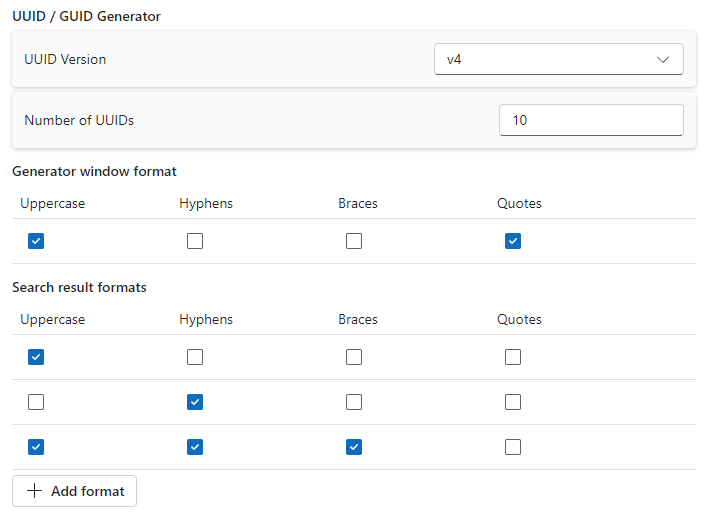
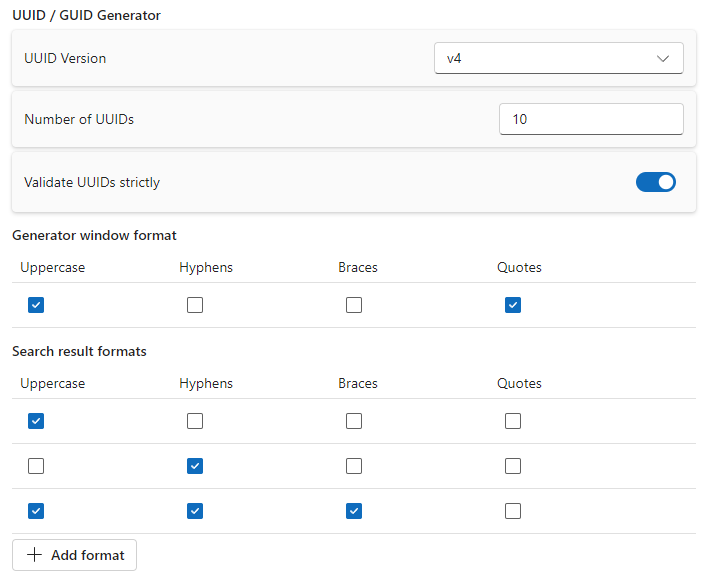
Added switch for validation of 'invalid' uuids which are valid in other programming languages (#1365)

diff --git a/src/main/Extensions/UuidGenerator/UuidGeneratorExtension.ts b/src/main/Extensions/UuidGenerator/UuidGeneratorExtension.ts
@@ -12,7 +12,7 @@ import {
 import { getExtensionSettingKey } from "@common/Core/Extension";
 import type { Image } from "@common/Core/Image";
 import type { Resources, Translations } from "@common/Core/Translator";
-import type { UuidGeneratorSetting as Settings, UuidFormat, UuidVersion } from "@common/Extensions/UuidGenerator";
+import type { UuidGeneratorSetting as Settings, UuidVersion } from "@common/Extensions/UuidGenerator";
 import { UuidGenerator } from "./UuidGenerator";
 
 export class UuidGeneratorExtension implements Extension {
@@ -22,6 +22,7 @@ export class UuidGeneratorExtension implements Extension {
     public readonly defaultSettings: Settings = {
         uuidVersion: "v4",
         numberOfUuids: 10,
+        validateStrictly: true,
         generatorFormat: { uppercase: false, hyphens: true, braces: false, quotes: false },
         searchResultFormats: [],
     };
@@ -38,7 +39,8 @@ export class UuidGeneratorExtension implements Extension {
     ) {}
 
     public getInstantSearchResultItems(searchTerm: string): InstantSearchResultItems {
-        const uuidFormats: UuidFormat[] = this.getSettingValue("searchResultFormats");
+        const uuidFormats = this.getSettingValue("searchResultFormats");
+        const validateStrictly = this.getSettingValue("validateStrictly");
 
         let uuidSearchTerm = searchTerm;
         if (uuidSearchTerm.toLowerCase().startsWith("uuid") || uuidSearchTerm.toLowerCase().startsWith("guid")) {
@@ -56,7 +58,7 @@ export class UuidGeneratorExtension implements Extension {
             return {
                 after: [],
                 before: uuidFormats.map((format, index) => {
-                    const formattedUuid = UuidGenerator.format(possibleUuid, format);
+                    const formattedUuid = UuidGenerator.format(possibleUuid, format, validateStrictly);
 
                     return {
                         name: formattedUuid,
@@ -142,6 +144,7 @@ export class UuidGeneratorExtension implements Extension {
                 openGeneratorName: "UUID / GUID Generator",
                 uuidVersion: "UUID Version",
                 numberOfUuids: "Number of UUIDs",
+                validateStrictly: "Validate UUIDs strictly",
                 uppercase: "Uppercase",
                 hyphens: "Hyphens",
                 braces: "Braces",
@@ -158,6 +161,7 @@ export class UuidGeneratorExtension implements Extension {
                 generatorResult: "UUID / GUID",
                 uuidVersion: "UUID Version",
                 numberOfUuids: "Anzahl UUIDs",
+                validateStrictly: "UUIDs strikt validieren",
                 uppercase: "Grossbuchstaben",
                 hyphens: "Bindestriche",
                 braces: "Geschweifte Klammern",
@@ -180,8 +184,12 @@ export class UuidGeneratorExtension implements Extension {
         };
     }
 
-    public getSettingDefaultValue(key: keyof Settings) {
+    public getSettingDefaultValue<T extends keyof Settings>(key: T): Settings[T] {
         return this.defaultSettings[key];
+    }
+
+    private getSettingValue<T extends keyof Settings>(key: T): Settings[T] {
+        return this.settingsManager.getValue(getExtensionSettingKey(this.id, key), this.getSettingDefaultValue(key));
     }
 
     public async invoke(settings: Settings): Promise<string[]> {
@@ -225,17 +233,12 @@ export class UuidGeneratorExtension implements Extension {
             }
         }
 
-        return UuidGenerator.format(uuid, { uppercase, hyphens, braces, quotes });
-    }
-
-    private getSettingValue<T>(key: keyof Settings): T {
-        return this.settingsManager.getValue<T>(
-            getExtensionSettingKey(this.id, key),
-            <T>this.getSettingDefaultValue(key),
-        );
+        return UuidGenerator.format(uuid, { uppercase, hyphens, braces, quotes }, true);
     }
 
     private validateUuid(uuid: string): boolean {
-        return UuidGenerator.validateUuid(uuid);
+        return this.getSettingValue("validateStrictly") === true
+            ? UuidGenerator.validateUuidStrictly(uuid)
+            : UuidGenerator.validateUuid(uuid);
     }
 }

diff --git a/src/main/Extensions/UuidGenerator/UuidGenerator.test.ts b/src/main/Extensions/UuidGenerator/UuidGenerator.test.ts
@@ -32,12 +32,16 @@ describe(UuidGenerator, () => {
     describe(UuidGenerator.format, () => {
         it("should throw an error if the uuid is invalid", () => {
             expect(() =>
-                UuidGenerator.format("invalid-uuid", {
-                    uppercase: false,
-                    hyphens: false,
-                    braces: false,
-                    quotes: false,
-                }),
+                UuidGenerator.format(
+                    "invalid-uuid",
+                    {
+                        uppercase: false,
+                        hyphens: false,
+                        braces: false,
+                        quotes: false,
+                    },
+                    true,
+                ),
             ).toThrow("Invalid UUID");
         });
 
@@ -49,13 +53,32 @@ describe(UuidGenerator, () => {
             ["21771a07-7dce-40b3-850e-386c1a0f5a2d", false, false, false, true, /"[0-9a-f]{32}"/],
             ["21771a07-7dce-40b3-850e-386c1a0f5a2d", false, false, true, true, /"\{[0-9a-f]{32}\}"/],
         ])("should format uuid correctly", (uuid, uppercase, hyphens, braces, quotes, expectedPattern) => {
-            const formattedUuid = UuidGenerator.format(uuid, {
-                uppercase: uppercase,
-                hyphens: hyphens,
-                braces: braces,
-                quotes: quotes,
-            });
+            const formattedUuid = UuidGenerator.format(
+                uuid,
+                {
+                    uppercase: uppercase,
+                    hyphens: hyphens,
+                    braces: braces,
+                    quotes: quotes,
+                },
+                true,
+            );
             expect(formattedUuid).toMatch(expectedPattern);
+        });
+    });
+
+    describe(UuidGenerator.validateUuidStrictly, () => {
+        it.each([
+            ["21771a07-7dce-40b3-850e-386c1a0f5a2d", true],
+            ["21771a07-7dce-40b3-850e-386c1a0f5a2z", false],
+            ["99edf227-d64c-5d90-d314-5d998c38c687", false],
+            ["e4cecde9-9c8e-c386-d314-b0c2d00161ea", false],
+            ["c7dc2472-4d58-7f9d-d314-9568005e9720", false],
+            ["db6b61a3-b22c-0999-d314-c0a53428d3e1", false],
+            ["e9d98550-d8e9-7ab4-d314-a8a540011a47", false],
+        ])("should validate uuid correctly (strict mode)", (uuid, expectedIsValid) => {
+            const isValid = UuidGenerator.validateUuidStrictly(uuid).toString();
+            expect(isValid).toMatch(expectedIsValid.toString());
         });
     });
 
@@ -63,7 +86,12 @@ describe(UuidGenerator, () => {
         it.each([
             ["21771a07-7dce-40b3-850e-386c1a0f5a2d", true],
             ["21771a07-7dce-40b3-850e-386c1a0f5a2z", false],
-        ])("should validate uuid correctly", (uuid, expectedIsValid) => {
+            ["99edf227-d64c-5d90-d314-5d998c38c687", true],
+            ["e4cecde9-9c8e-c386-d314-b0c2d00161ea", true],
+            ["c7dc2472-4d58-7f9d-d314-9568005e9720", true],
+            ["db6b61a3-b22c-0999-d314-c0a53428d3e1", true],
+            ["e9d98550-d8e9-7ab4-d314-a8a540011a47", true],
+        ])("should validate uuid correctly (not in strict mode)", (uuid, expectedIsValid) => {
             const isValid = UuidGenerator.validateUuid(uuid).toString();
             expect(isValid).toMatch(expectedIsValid.toString());
         });

diff --git a/src/renderer/Extensions/UuidGenerator/UuidGeneratorSettings.tsx b/src/renderer/Extensions/UuidGenerator/UuidGeneratorSettings.tsx
@@ -11,6 +11,7 @@ import {
     Input,
     Label,
     Option,
+    Switch,
     Table,
     TableBody,
     TableCell,
@@ -38,6 +39,11 @@ export const UuidGeneratorSettings = () => {
     const { value: numberOfUuids, updateValue: setNumberOfUuids } = useExtensionSetting<number>({
         extensionId,
         key: "numberOfUuids",
+    });
+
+    const { value: validateStrictly, updateValue: setValidateStrictly } = useExtensionSetting<boolean>({
+        extensionId,
+        key: "validateStrictly",
     });
 
     const { value: uppercase, updateValue: setUppercase } = useExtensionSetting<boolean>({
@@ -121,6 +127,15 @@ export const UuidGeneratorSettings = () => {
                             value={`${numberOfUuids}`}
                             type="number"
                             onChange={(_, { value }) => value && setNumberOfUuids(Math.abs(Number(value)))}
+                        />
+                    }
+                />
+                <Setting
+                    label={t("validateStrictly")}
+                    control={
+                        <Switch
+                            checked={validateStrictly}
+                            onChange={(_, { checked }) => setValidateStrictly(checked)}
                         />
                     }
                 />

diff --git a/src/main/Extensions/UuidGenerator/UuidGenerator.ts b/src/main/Extensions/UuidGenerator/UuidGenerator.ts
@@ -14,8 +14,11 @@ export class UuidGenerator {
         return uuidv7();
     }
 
-    public static format(uuid: string, format: UuidFormat): string {
-        if (!uuidValidate(uuid)) {
+    public static format(uuid: string, format: UuidFormat, validateStrictly: boolean): string {
+        if (
+            (validateStrictly === true && !this.validateUuidStrictly(uuid)) ||
+            (validateStrictly === false && !this.validateUuid(uuid))
+        ) {
             throw new Error("Invalid UUID");
         }
 
@@ -71,7 +74,11 @@ export class UuidGenerator {
         return formattedUuid;
     }
 
-    public static validateUuid(uuid: string): boolean {
+    public static validateUuidStrictly(uuid: string): boolean {
         return uuidValidate(uuid);
+    }
+
+    public static validateUuid(uuid: string): boolean {
+        return /[0-9a-f]{8}-[0-9a-f]{4}-[0-9a-f]{4}-[0-9a-f]{4}-[0-9a-f]{12}/gi.test(uuid);
     }
 }

diff --git a/src/renderer/Extensions/UuidGenerator/Generator.tsx b/src/renderer/Extensions/UuidGenerator/Generator.tsx
@@ -44,6 +44,11 @@ export const Generator = ({
         key: "numberOfUuids",
     });
 
+    const { value: validateStrictly } = useExtensionSetting<boolean>({
+        extensionId,
+        key: "validateStrictly",
+    });
+
     const { value: uppercase, updateValue: setUppercase } = useExtensionSetting<boolean>({
         extensionId,
         key: "uppercase",
@@ -71,6 +76,7 @@ export const Generator = ({
             const uuids = await contextBridge.invokeExtension<UuidGeneratorSetting, InvocationResult>(extensionId, {
                 uuidVersion: uuidVersion,
                 numberOfUuids: numberOfUuids,
+                validateStrictly: validateStrictly,
                 generatorFormat: {
                     uppercase: uppercase,
                     hyphens: hyphens,

diff --git a/src/common/Extensions/UuidGenerator/UuidGeneratorSetting.ts b/src/common/Extensions/UuidGenerator/UuidGeneratorSetting.ts
@@ -4,6 +4,7 @@ import type { UuidVersion } from "./UuidVersion";
 export type UuidGeneratorSetting = {
     uuidVersion: UuidVersion;
     numberOfUuids: number;
+    validateStrictly: boolean;
     generatorFormat: UuidFormat;
     searchResultFormats: UuidFormat[];
 };

diff --git a/docs/Extensions/UuidGenerator/README.md b/docs/Extensions/UuidGenerator/README.md
@@ -15,6 +15,7 @@ This extension also allows to format the UUID to several different styles in a f
 
 - **UUID Version**: The UUID version, either [v4](<https://en.wikipedia.org/wiki/Universally_unique_identifier#Version_4_(random)>), [v6](<https://en.wikipedia.org/wiki/Universally_unique_identifier#Versions_1_and_6_(date-time_and_MAC_address)>) or [v7](<https://en.wikipedia.org/wiki/Universally_unique_identifier#Version_7_(timestamp_and_random)>)
 - **Number of UUIDs to generate**: The number of UUIDs that will be created, only applies when using the UI of the extension
+- **Validate UUIDs strictly**: Whether the UUID should validate correctly (with version and time info) or if it just needs to be in the correct format and hex characters
 - **Uppercase**: Whether the characters of the UUID should be uppercase
 - **Hyphen**: Whether the UUID should contain hyphens (-)
 - **Braces**: Whether the UUID should be wrapped in braces ({})
